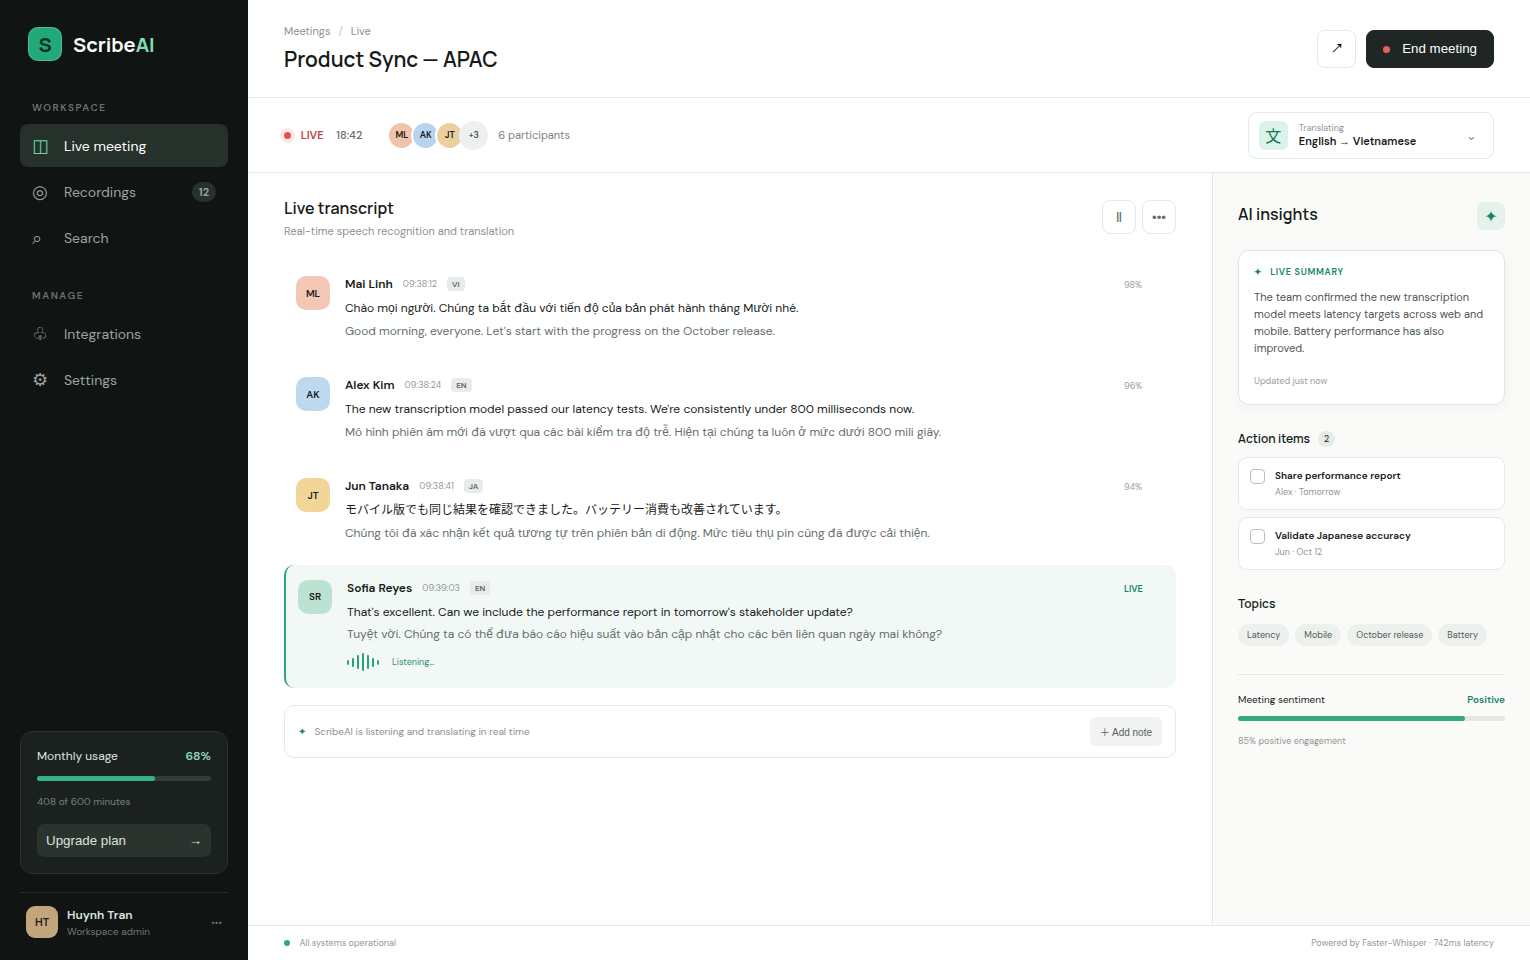
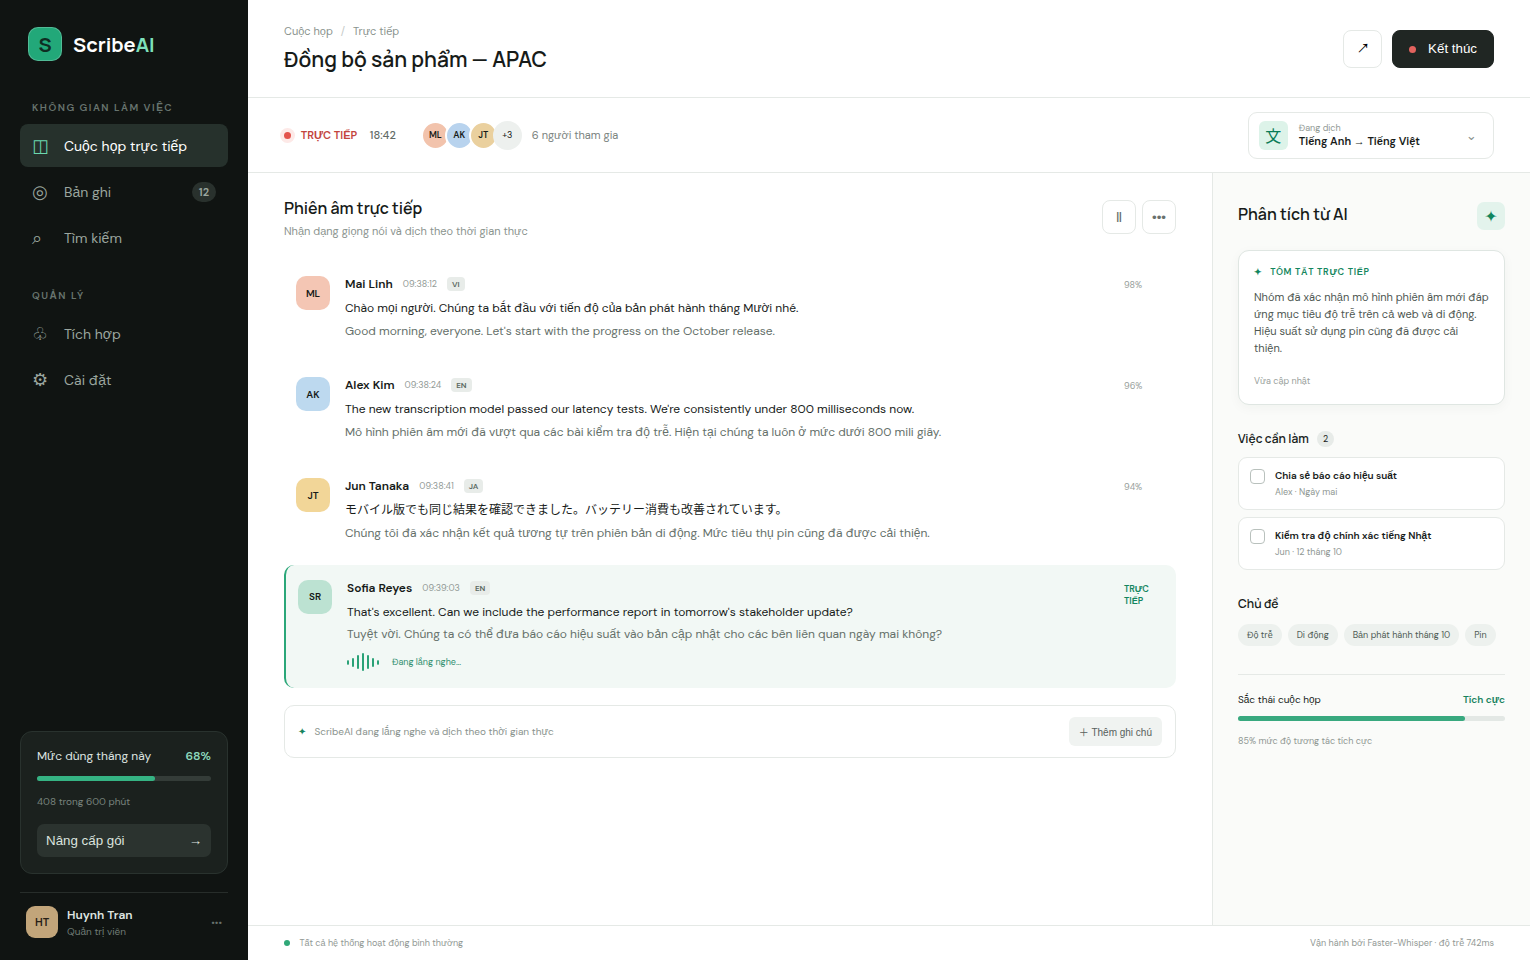
docs: localize README and dashboard to Vietnamese

diff --git a/web/index.html b/web/index.html
@@ -1,10 +1,10 @@
 <!doctype html>
-<html lang="en">
+<html lang="vi">
 <head>
   <meta charset="utf-8">
   <meta name="viewport" content="width=device-width,initial-scale=1">
   <meta name="theme-color" content="#101312">
-  <title>ScribeAI — Live multilingual meetings</title>
+  <title>ScribeAI — Trợ lý cuộc họp đa ngôn ngữ</title>
   <link rel="preconnect" href="https://fonts.googleapis.com">
   <link rel="preconnect" href="https://fonts.gstatic.com" crossorigin>
   <link href="https://fonts.googleapis.com/css2?family=DM+Sans:wght@400;500;600&family=Manrope:wght@500;600;700&display=swap" rel="stylesheet">
@@ -15,38 +15,38 @@
     <aside class="sidebar">
       <a class="brand" href="#"><span class="brand-mark">S</span><span>Scribe<span>AI</span></span></a>
       <nav>
-        <p class="eyebrow">Workspace</p>
-        <a class="nav-item active" href="#"><span>◫</span> Live meeting</a>
-        <a class="nav-item" href="#"><span>◎</span> Recordings <b>12</b></a>
-        <a class="nav-item" href="#"><span>⌕</span> Search</a>
-        <p class="eyebrow space">Manage</p>
-        <a class="nav-item" href="#"><span>♧</span> Integrations</a>
-        <a class="nav-item" href="#"><span>⚙</span> Settings</a>
+        <p class="eyebrow">Không gian làm việc</p>
+        <a class="nav-item active" href="#"><span>◫</span> Cuộc họp trực tiếp</a>
+        <a class="nav-item" href="#"><span>◎</span> Bản ghi <b>12</b></a>
+        <a class="nav-item" href="#"><span>⌕</span> Tìm kiếm</a>
+        <p class="eyebrow space">Quản lý</p>
+        <a class="nav-item" href="#"><span>♧</span> Tích hợp</a>
+        <a class="nav-item" href="#"><span>⚙</span> Cài đặt</a>
       </nav>
       <div class="usage">
-        <div class="usage-head"><span>Monthly usage</span><strong>68%</strong></div>
+        <div class="usage-head"><span>Mức dùng tháng này</span><strong>68%</strong></div>
         <div class="meter"><i></i></div>
-        <small>408 of 600 minutes</small>
-        <button>Upgrade plan <span>→</span></button>
+        <small>408 trong 600 phút</small>
+        <button>Nâng cấp gói <span>→</span></button>
       </div>
-      <div class="profile"><span class="avatar">HT</span><div><strong>Huynh Tran</strong><small>Workspace admin</small></div><span>•••</span></div>
+      <div class="profile"><span class="avatar">HT</span><div><strong>Huynh Tran</strong><small>Quản trị viên</small></div><span>•••</span></div>
     </aside>
 
     <main>
       <header class="topbar">
-        <div><div class="crumb">Meetings <span>/</span> Live</div><h1>Product Sync — APAC</h1></div>
-        <div class="top-actions"><button class="icon-btn">↗</button><button class="end-btn"><i></i> End meeting</button></div>
+        <div><div class="crumb">Cuộc họp <span>/</span> Trực tiếp</div><h1>Đồng bộ sản phẩm — APAC</h1></div>
+        <div class="top-actions"><button class="icon-btn" title="Chia sẻ">↗</button><button class="end-btn"><i></i> Kết thúc</button></div>
       </header>
 
       <section class="status-row">
-        <div class="live-pill"><i></i> LIVE <span id="timer">18:42</span></div>
-        <div class="participant-stack"><span class="av a1">ML</span><span class="av a2">AK</span><span class="av a3">JT</span><span class="more">+3</span><span class="people">6 participants</span></div>
-        <div class="language"><span>文</span><div><small>Translating</small><strong>English → Vietnamese</strong></div><button>⌄</button></div>
+        <div class="live-pill"><i></i> TRỰC TIẾP <span id="timer">18:42</span></div>
+        <div class="participant-stack"><span class="av a1">ML</span><span class="av a2">AK</span><span class="av a3">JT</span><span class="more">+3</span><span class="people">6 người tham gia</span></div>
+        <div class="language"><span>文</span><div><small>Đang dịch</small><strong>Tiếng Anh → Tiếng Việt</strong></div><button>⌄</button></div>
       </section>
 
       <section class="workspace">
         <div class="transcript-panel">
-          <div class="panel-title"><div><h2>Live transcript</h2><p>Real-time speech recognition and translation</p></div><div class="panel-actions"><button id="pause">Ⅱ</button><button>•••</button></div></div>
+          <div class="panel-title"><div><h2>Phiên âm trực tiếp</h2><p>Nhận dạng giọng nói và dịch theo thời gian thực</p></div><div class="panel-actions"><button id="pause" title="Tạm dừng">Ⅱ</button><button>•••</button></div></div>
           <div class="timeline" id="timeline">
             <article class="segment">
               <span class="speaker-avatar coral">ML</span><div class="utterance"><div class="speaker"><strong>Mai Linh</strong><time>09:38:12</time><em>VI</em></div><p>Chào mọi người. Chúng ta bắt đầu với tiến độ của bản phát hành tháng Mười nhé.</p><p class="translated">Good morning, everyone. Let's start with the progress on the October release.</p></div><span class="confidence">98%</span>
@@ -58,27 +58,26 @@
               <span class="speaker-avatar gold">JT</span><div class="utterance"><div class="speaker"><strong>Jun Tanaka</strong><time>09:38:41</time><em>JA</em></div><p>モバイル版でも同じ結果を確認できました。バッテリー消費も改善されています。</p><p class="translated">Chúng tôi đã xác nhận kết quả tương tự trên phiên bản di động. Mức tiêu thụ pin cũng đã được cải thiện.</p></div><span class="confidence">94%</span>
             </article>
             <article class="segment current">
-              <span class="speaker-avatar green">SR</span><div class="utterance"><div class="speaker"><strong>Sofia Reyes</strong><time>09:39:03</time><em>EN</em></div><p>That's excellent. Can we include the performance report in tomorrow's stakeholder update?</p><p class="translated">Tuyệt vời. Chúng ta có thể đưa báo cáo hiệu suất vào bản cập nhật cho các bên liên quan ngày mai không?</p><div class="wave"><i></i><i></i><i></i><i></i><i></i><i></i><i></i><i></i><span>Listening…</span></div></div><span class="confidence live-c">LIVE</span>
+              <span class="speaker-avatar green">SR</span><div class="utterance"><div class="speaker"><strong>Sofia Reyes</strong><time>09:39:03</time><em>EN</em></div><p>That's excellent. Can we include the performance report in tomorrow's stakeholder update?</p><p class="translated">Tuyệt vời. Chúng ta có thể đưa báo cáo hiệu suất vào bản cập nhật cho các bên liên quan ngày mai không?</p><div class="wave"><i></i><i></i><i></i><i></i><i></i><i></i><i></i><i></i><span>Đang lắng nghe…</span></div></div><span class="confidence live-c">TRỰC TIẾP</span>
             </article>
           </div>
-          <div class="composer"><span class="pulse">✦</span><span>ScribeAI is listening and translating in real time</span><button title="Add a note">＋ Add note</button></div>
+          <div class="composer"><span class="pulse">✦</span><span>ScribeAI đang lắng nghe và dịch theo thời gian thực</span><button title="Thêm ghi chú">＋ Thêm ghi chú</button></div>
         </div>
 
         <aside class="insights">
-          <div class="insight-head"><h2>AI insights</h2><span class="spark">✦</span></div>
-          <div class="summary"><div class="card-label"><span>✦</span> LIVE SUMMARY</div><p>The team confirmed the new transcription model meets latency targets across web and mobile. Battery performance has also improved.</p><small>Updated just now</small></div>
-          <div class="section-head"><h3>Action items</h3><span>2</span></div>
-          <label class="task"><input type="checkbox"><span class="check"></span><span><strong>Share performance report</strong><small>Alex · Tomorrow</small></span></label>
-          <label class="task"><input type="checkbox"><span class="check"></span><span><strong>Validate Japanese accuracy</strong><small>Jun · Oct 12</small></span></label>
-          <div class="section-head topics-head"><h3>Topics</h3></div>
-          <div class="topics"><span>Latency</span><span>Mobile</span><span>October release</span><span>Battery</span></div>
-          <div class="sentiment"><div><span>Meeting sentiment</span><strong>Positive</strong></div><div class="sentiment-bar"><i></i></div><small>85% positive engagement</small></div>
+          <div class="insight-head"><h2>Phân tích từ AI</h2><span class="spark">✦</span></div>
+          <div class="summary"><div class="card-label"><span>✦</span> TÓM TẮT TRỰC TIẾP</div><p>Nhóm đã xác nhận mô hình phiên âm mới đáp ứng mục tiêu độ trễ trên cả web và di động. Hiệu suất sử dụng pin cũng đã được cải thiện.</p><small>Vừa cập nhật</small></div>
+          <div class="section-head"><h3>Việc cần làm</h3><span>2</span></div>
+          <label class="task"><input type="checkbox"><span class="check"></span><span><strong>Chia sẻ báo cáo hiệu suất</strong><small>Alex · Ngày mai</small></span></label>
+          <label class="task"><input type="checkbox"><span class="check"></span><span><strong>Kiểm tra độ chính xác tiếng Nhật</strong><small>Jun · 12 tháng 10</small></span></label>
+          <div class="section-head topics-head"><h3>Chủ đề</h3></div>
+          <div class="topics"><span>Độ trễ</span><span>Di động</span><span>Bản phát hành tháng 10</span><span>Pin</span></div>
+          <div class="sentiment"><div><span>Sắc thái cuộc họp</span><strong>Tích cực</strong></div><div class="sentiment-bar"><i></i></div><small>85% mức độ tương tác tích cực</small></div>
         </aside>
       </section>
-      <footer><span><i></i> All systems operational</span><span>Powered by Faster-Whisper · 742ms latency</span></footer>
+      <footer><span><i></i> Tất cả hệ thống hoạt động bình thường</span><span>Vận hành bởi Faster-Whisper · độ trễ 742ms</span></footer>
     </main>
   </div>
   <script src="/assets/app.js"></script>
 </body>
 </html>
-

diff --git a/README.md b/README.md
@@ -1,20 +1,20 @@
 # ScribeAI
 
-Distributed AI meeting assistant for real-time multilingual transcription and translation. The current MVP provides a working FastAPI/WebSocket ingestion API, a polished live meeting dashboard, and a headless Playwright meeting agent scaffold.
+Trợ lý cuộc họp AI phân tán, hỗ trợ phiên âm và dịch đa ngôn ngữ theo thời gian thực. Phiên bản MVP hiện có API tiếp nhận dữ liệu bằng FastAPI/WebSocket, bảng điều khiển cuộc họp trực tiếp và bộ khung bot tham gia cuộc họp bằng Playwright chạy ẩn.
 
-![ScribeAI live dashboard](screenshots/dashboard.png)
+![Bảng điều khiển trực tiếp của ScribeAI](screenshots/dashboard.png)
 
-## What works
+## Tính năng hiện có
 
-- Create and manage live meeting sessions through a typed REST API.
-- Ingest speaker-attributed transcript segments and broadcast them over WebSockets.
-- Monitor a multilingual live transcript with translations, confidence, summary, tasks, topics, and sentiment.
-- Launch a zero-shot Google Meet bot using TypeScript and Playwright (subject to the meeting host admitting it).
-- Run the service stack with FastAPI, Redis, and PostgreSQL through Docker Compose.
+- Tạo và quản lý phiên họp trực tiếp thông qua REST API có kiểu dữ liệu rõ ràng.
+- Tiếp nhận các đoạn phiên âm theo từng người nói và phát trực tiếp qua WebSocket.
+- Theo dõi bản ghi đa ngôn ngữ cùng bản dịch, độ tin cậy, tóm tắt, việc cần làm, chủ đề và sắc thái cuộc họp.
+- Khởi chạy bot Google Meet bằng TypeScript và Playwright; bot cần được chủ phòng chấp nhận cho tham gia.
+- Chạy toàn bộ hệ thống FastAPI, Redis và PostgreSQL bằng Docker Compose.
 
-## Quick start
+## Khởi động nhanh
 
-Requires Python 3.11+.
+Yêu cầu Python 3.11 trở lên.
 
 ```bash
 python -m venv .venv
@@ -22,21 +22,21 @@ python -m venv .venv
 .venv/bin/uvicorn app.main:app --reload
 ```
 
-Open [http://localhost:8000](http://localhost:8000). API documentation is at `/docs` and health status at `/api/health`.
+Mở [http://localhost:8000](http://localhost:8000). Tài liệu API nằm tại `/docs`, trạng thái hệ thống nằm tại `/api/health`.
 
-Run tests:
+Chạy kiểm thử:
 
 ```bash
 .venv/bin/pytest -q
 ```
 
-Or launch the infrastructure:
+Hoặc khởi chạy toàn bộ hạ tầng:
 
 ```bash
 docker compose up --build
 ```
 
-## Meeting bot
+## Bot tham gia cuộc họp
 
 ```bash
 cd bot-agent
@@ -45,34 +45,34 @@ npx playwright install chromium
 MEETING_URL="https://meet.google.com/..." npm start
 ```
 
-The agent joins muted with the name `ScribeAI Notes`. Google Meet UI selectors can change, so validate the bot against your Workspace policy before production use.
+Bot sẽ tham gia ở trạng thái tắt tiếng với tên `ScribeAI Notes`. Giao diện và bộ chọn phần tử của Google Meet có thể thay đổi, vì vậy hãy kiểm tra bot theo chính sách Google Workspace của bạn trước khi dùng trong môi trường thực tế.
 
-## Architecture
+## Kiến trúc
 
 ```text
-Meeting ──> Playwright agent ──> Audio/segment workers
-                                      │
-                                      ▼
-Dashboard <── WebSocket/API <── Redis Streams
-                    │
-                    └──────────> PostgreSQL
+Cuộc họp ──> Bot Playwright ──> Bộ xử lý âm thanh/đoạn hội thoại
+                                        │
+                                        ▼
+Bảng điều khiển <── WebSocket/API <── Redis Streams
+                         │
+                         └──────────> PostgreSQL
 ```
 
-The MVP uses an in-process repository for a zero-config demo. `docker-compose.yml` provisions Redis Streams and PostgreSQL as the production integration boundary. Faster-Whisper/CUDA workers can publish normalized `TranscriptSegment` events to `POST /api/meetings/{id}/segments` while the API fans them out to connected clients.
+MVP sử dụng kho dữ liệu trong bộ nhớ để có thể chạy demo ngay mà không cần cấu hình. `docker-compose.yml` cung cấp Redis Streams và PostgreSQL làm ranh giới tích hợp cho môi trường triển khai. Các worker Faster-Whisper/CUDA có thể gửi sự kiện `TranscriptSegment` đã chuẩn hóa tới `POST /api/meetings/{id}/segments`; API sẽ phát các sự kiện này tới những máy khách đang kết nối.
 
-## API example
+## Ví dụ gọi API
 
 ```bash
 curl -X POST http://localhost:8000/api/meetings \
   -H 'content-type: application/json' \
-  -d '{"title":"Weekly sync","source_language":"auto","target_language":"vi"}'
+  -d '{"title":"Họp đồng bộ hằng tuần","source_language":"auto","target_language":"vi"}'
 ```
 
-## Roadmap
+## Lộ trình phát triển
 
-- Faster-Whisper GPU worker and voice activity detection
-- Durable Redis consumer groups and PostgreSQL repositories
-- Zoom and Microsoft Teams meeting adapters
-- Authentication, tenant isolation, and encrypted recordings
+- Worker Faster-Whisper sử dụng GPU và tính năng phát hiện giọng nói.
+- Redis consumer group bền vững và kho dữ liệu PostgreSQL.
+- Bộ kết nối cuộc họp Zoom và Microsoft Teams.
+- Xác thực, phân tách dữ liệu theo tổ chức và mã hóa bản ghi.
 
-MIT licensed. See [LICENSE](LICENSE).
+Dự án sử dụng giấy phép MIT. Xem [LICENSE](LICENSE).
